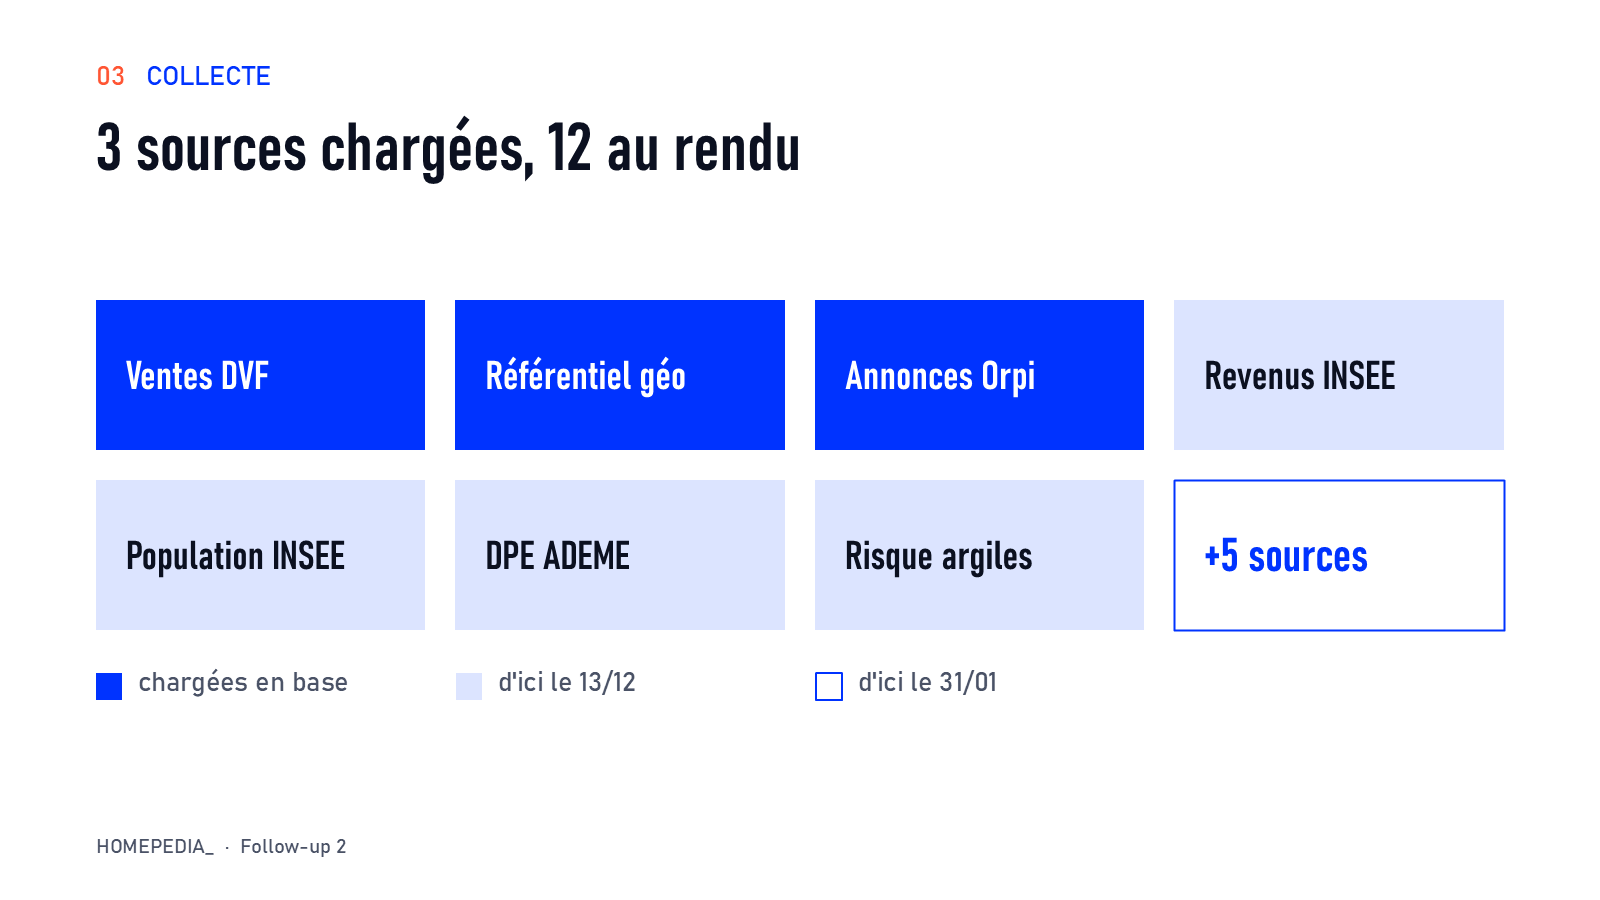
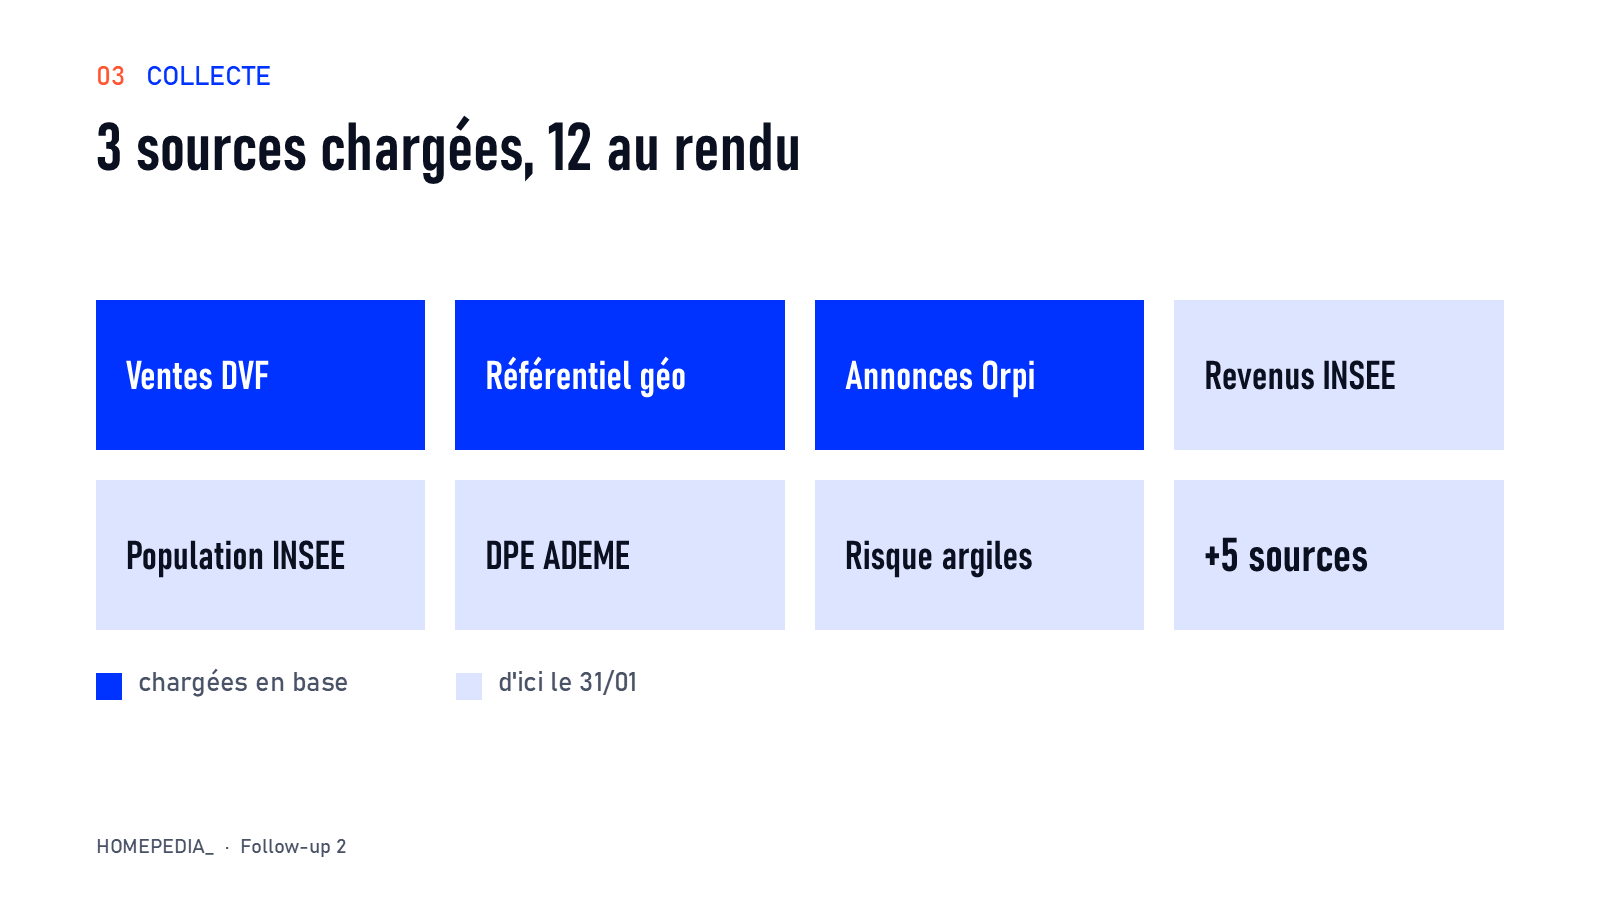
docs(followup2): slide Application et feuille de route reordonnee (cloud et pipelines d'abord)

Changed region(s): [[0.7188, 0.5289, 0.9688, 0.7156], [0.5, 0.7467, 0.625, 0.7778], [0.3438, 0.7467, 0.4062, 0.7778]]

diff --git a/docs/followup2/build_deck.py b/docs/followup2/build_deck.py
@@ -210,7 +210,8 @@ Chacune a déjà une brique qui fonctionne de bout en bout, de la donnée brute 
 - Bases : PostgreSQL/PostGIS pour le tabulaire et le spatial, MongoDB pour le texte des annonces.
 - Big data : un job Spark calcule les prix médians, recontrôlé en SQL.
 - Visualisation : application Streamlit, carte région → département → commune.
-La suite consiste à élargir chaque brique : plus de sources, l'analyse de texte, Spark sur OVHcloud Data Platform.
+La suite : d'abord Spark et des pipelines déployés automatiquement sur OVHcloud Data Platform, puis l'analyse de texte,
+puis les nouvelles sources, qui s'ajoutent alors comme de simples jobs.
 """)
 
 
@@ -224,6 +225,7 @@ def s03_sources(prs):
     gap = Inches(0.25)
     cw, ch = (LARGEUR - 3 * gap) / 4, Inches(1.25)
     cases = ([(nom, BLEU, BLANC) for nom in en_place] + [(nom, BLEU_PALE, ENCRE) for nom in palier1])
+    # Feuille de route : les 4 sources socio-éco et les 5 dernières arrivent au même palier (11/01 – 31/01)
     for i, (nom, fond_case, encre) in enumerate(cases):
         ligne, col = divmod(i, 4)
         x, y = MARGE + col * (cw + gap), Inches(2.5) + ligne * (ch + gap)
@@ -232,13 +234,12 @@ def s03_sources(prs):
               ancre=MSO_ANCHOR.MIDDLE)
     # 8e case : les sources restantes, sans cases vides
     x, y = MARGE + 3 * (cw + gap), Inches(2.5) + ch + gap
-    rect(s, x, y, cw, ch, contour=BLEU, epaisseur=1.5)
+    rect(s, x, y, cw, ch, remplissage=BLEU_PALE)
     texte(s, x + Inches(0.25), y, cw - Inches(0.5), ch,
-          f"+{F['sources_restantes']} sources", taille=28, couleur=BLEU,
+          f"+{F['sources_restantes']} sources", taille=28, couleur=ENCRE,
           police=TITRE, ancre=MSO_ANCHOR.MIDDLE)
     y_leg = Inches(5.55)
-    for j, (style, libelle) in enumerate([((BLEU, None), "chargées en base"), ((BLEU_PALE, None), "d'ici le 13/12"),
-                                          ((None, BLEU), "d'ici le 31/01")]):
+    for j, (style, libelle) in enumerate([((BLEU, None), "chargées en base"), ((BLEU_PALE, None), "d'ici le 31/01")]):
         x = MARGE + j * Inches(3.0)
         rect(s, x, y_leg + Inches(0.06), Inches(0.22), Inches(0.22), remplissage=style[0], contour=style[1])
         texte(s, x + Inches(0.35), y_leg, Inches(2.6), Inches(0.4), libelle, taille=16, couleur=GRIS)
@@ -250,11 +251,13 @@ En place et chargées en base :
 2. Référentiel géographique geo.api.gouv.fr : {F['regions']} régions, {F['departements']} départements, {n(F['communes'])} communes et leurs contours.
 3. Annonces Orpi : {F['annonces']} annonces de vente collectées par scraping (robots.txt respecté, 1 requête par seconde),
    avec la description en texte libre — c'est notre source textuelle.
-D'ici le 13/12, {F['sources_palier1']} sources en open data, reliées par le code INSEE de la commune : revenus (INSEE Filosofi),
+D'ici le 31/01, une fois les pipelines déployés automatiquement sur la plateforme cloud (priorité du premier palier),
+{F['sources_palier1']} sources socio-économiques en open data, reliées par le code INSEE de la commune : revenus (INSEE Filosofi),
 population, diagnostics énergétiques (ADEME), risque retrait-gonflement des argiles (Géorisques — répond à la
-question du sujet sur le risque climatique à 15 ans).
-D'ici le 31/01, {F['sources_restantes']} de plus pour atteindre {F['sources_visees']} : établissements scolaires, gares, chômage localisé (INSEE),
+question du sujet sur le risque climatique à 15 ans) ;
+et {F['sources_restantes']} de plus pour atteindre {F['sources_visees']} : établissements scolaires, gares, chômage localisé (INSEE),
 Base Adresse Nationale, et une source d'avis textuels.
+Chaque nouvelle source = un job ajouté au pipeline, pas un chantier à part.
 """)
 
 
@@ -358,7 +361,42 @@ Résultat : {n(F['indicateurs_lignes'])} indicateurs écrits en base, avec leur 
 Pourquoi la médiane : une vente aberrante ne la déplace pas, contrairement à la moyenne.
 Vérification : un contrôle recalcule en SQL la médiane de TOUTES les zones et compare avec Spark :
 {F['ecarts_spark_sql']} écart. Relancer le job redonne la même table (idempotence vérifiée).
-Aujourd'hui Spark tourne en local sur une machine ; il passera sur OVHcloud Data Platform (slide 10).
+Aujourd'hui Spark tourne en local sur une machine ; il passera sur OVHcloud Data Platform (slide 11).
+""")
+
+
+def s07_application(prs):
+    s = prs.slides.add_slide(prs.slide_layouts[6])
+    fond(s, BLANC)
+    entete(s, 7, "Application", "Trois pages pour deux questions métier")
+    pages = [
+        ("EN PLACE", "Carte", "Prix, évolution, puis autres indicateurs", True),
+        ("À VENIR", "Fiche territoire", "Une zone, tous ses chiffres", False),
+        ("À VENIR", "Comparateur", "Scoring franchises, écarts d'inégalités", False),
+    ]
+    gap = Inches(0.6)
+    w = (LARGEUR - 2 * gap) / 3
+    for i, (etat, titre, detail, fait) in enumerate(pages):
+        x = MARGE + i * (w + gap)
+        rect(s, x, Inches(2.7), w, Inches(0.09), remplissage=BLEU if fait else FILET)
+        texte(s, x, Inches(3.0), w, Inches(0.4), etat, taille=16, couleur=VERT if fait else ORANGE,
+              police=TITRE if fait else CORPS)
+        texte(s, x, Inches(3.45), w, Inches(0.9), titre, taille=40, police=TITRE, couleur=BLEU if fait else ENCRE)
+        texte(s, x, Inches(4.4), w - Inches(0.2), Inches(1.0), detail, taille=20, police=LEGER, couleur=GRIS)
+    notes(s, f"""
+Le sujet ne vise pas les particuliers mais les professionnels : agences, collectivités, analystes.
+On a choisi deux de ses questions métier comme fil rouge (ADR-042) :
+- « Où ouvrir les 10 prochaines franchises de mon entreprise ? » → un scoring multi-critères dont l'utilisateur règle les poids
+  (prix, revenus, population, dynamisme des ventes, risque argiles…) ;
+- « Comment réduire les inégalités dans mon département ? » → des indicateurs d'écart entre communes d'un même département.
+L'application cible a trois pages :
+1. Carte (en place) : prix médian et évolution aujourd'hui, puis chaque nouvel indicateur devient une couche au choix.
+2. Fiche territoire : une commune, un département ou une région, tous ses indicateurs et leur évolution sur une page.
+3. Comparateur et scoring : plusieurs zones côte à côte, classement pondérable pour les franchises, écarts pour les inégalités.
+Le volet texte alimente la carte et les fiches : caractéristiques extraites des annonces (« travaux », « rénovation »)
+et sentiment calculé sur une source d'avis.
+Sur chaque page, comme le demande le sujet : commune, département et région, tableau triable, filtrable et exportable,
+indicateurs croisés.
 """)
 
 
@@ -369,10 +407,10 @@ def capture_recadree(nom="1_france", boite=(230, 60, 1420, 1170)):
     return dst
 
 
-def s07_demo(prs):
+def s08_demo(prs):
     s = prs.slides.add_slide(prs.slide_layouts[6])
     fond(s, BLANC)
-    entete(s, 7, "Démo", f"De la France à l'arrondissement en {F['clics_demo']} clics")
+    entete(s, 8, "Démo", f"De la France à l'arrondissement en {F['clics_demo']} clics")
     pic = image(s, capture_recadree(), MARGE, Inches(2.0), Inches(6.2), Inches(4.65))
     texte(s, MARGE, pic.top + pic.height + Inches(0.08), pic.width, Inches(0.25), "Fond de carte © Esri",
           taille=10, couleur=GRIS).name = "chrome attribution"
@@ -400,10 +438,10 @@ Si la démo ne répond pas : captures du parcours dans docs/followup2/captures/.
 """)
 
 
-def s08_evolution(prs):
+def s09_evolution(prs):
     s = prs.slides.add_slide(prs.slide_layouts[6])
     fond(s, BLANC)
-    entete(s, 8, "Évolution", f"Paris : {pct(F['variation_paris_pct'])} entre {F['annee_debut']} et {F['annee_fin']}")
+    entete(s, 9, "Évolution", f"Paris : {pct(F['variation_paris_pct'])} entre {F['annee_debut']} et {F['annee_fin']}")
     pic = image(s, capture_recadree("5_evolution_paris"), MARGE, Inches(2.0), Inches(6.2), Inches(4.65))
     texte(s, MARGE, pic.top + pic.height + Inches(0.08), pic.width, Inches(0.25), "Fond de carte © Esri",
           taille=10, couleur=GRIS).name = "chrome attribution"
@@ -437,10 +475,10 @@ Plan B : captures/4_evolution_france_app.png et 5_evolution_paris_app.png.
 """)
 
 
-def s09_controles(prs):
+def s10_controles(prs):
     s = prs.slides.add_slide(prs.slide_layouts[6])
     fond(s, BLEU)
-    entete(s, 9, "Qualité", "Bases et application vérifiées automatiquement", sombre=True)
+    entete(s, 10, "Qualité", "Bases et application vérifiées automatiquement", sombre=True)
     for i, (gros, petit) in enumerate([(F["controles_bdd"], "contrôles sur les bases"),
                                         (F["tests_app"], "tests de l'application")]):
         x = MARGE + i * Inches(5.6)
@@ -459,10 +497,10 @@ Les chiffres de ce deck sont eux-mêmes extraits de la base par un script, pas r
 """)
 
 
-def s10_cloud(prs):
+def s11_cloud(prs):
     s = prs.slides.add_slide(prs.slide_layouts[6])
     fond(s, BLANC)
-    entete(s, 10, "Plateforme cloud", "Spark passe sur OVHcloud Data Platform")
+    entete(s, 11, "Plateforme cloud", "Spark passe sur OVHcloud Data Platform")
     colonnes = [
         ("AUJOURD'HUI", "Spark local", "1 machine", ENCRE),
         ("OVHCLOUD DATA PLATFORM", "Spark distribué", "1 driver + N exécuteurs", BLEU),
@@ -481,7 +519,7 @@ def s10_cloud(prs):
                   align=PP_ALIGN.CENTER)
     trait(s, MARGE, Inches(5.4), L - MARGE, Inches(5.4))
     texte(s, MARGE, Inches(5.6), LARGEUR, Inches(0.5),
-          [[("Mode serverless : ", {"police": TITRE, "couleur": BLEU}), ("facturé à l'exécution", {})]],
+          [[("Priorité : ", {"police": TITRE, "couleur": BLEU}), ("pipelines déployés automatiquement", {})]],
           taille=22, police=LEGER, couleur=ENCRE)
     notes(s, """
 Le sujet impose de répartir le calcul sur un cluster de machines (Hadoop / Spark) : on le fera sur OVHcloud Data Platform.
@@ -495,17 +533,20 @@ Notre job tourne déjà en PySpark : on le porte tel quel, la table d'indicateur
 Coût maîtrisé : facturation à l'usage ; en mode serverless, un job ne consomme que pendant son exécution
 (un notebook allumé ou le mode always-up consomment en continu, on les évite).
 Contrôle prévu : la même vérification qu'aujourd'hui, médiane Spark = recalcul SQL sur toutes les zones.
+C'est la priorité du prochain palier : prendre en main la plateforme et automatiser le déploiement des pipelines
+(ingestion, nettoyage, calcul Spark, contrôles). Ensuite, intégrer une nouvelle source ou un nouveau calcul revient
+à ajouter un job, déployé et contrôlé de la même façon — c'est ce qui rend les paliers suivants rapides.
 """)
 
 
-def s11_feuille_de_route(prs):
+def s12_feuille_de_route(prs):
     s = prs.slides.add_slide(prs.slide_layouts[6])
     fond(s, BLANC)
-    entete(s, 11, "Feuille de route", "Quatre paliers jusqu'au rendu du 7 février")
+    entete(s, 12, "Feuille de route", "Quatre paliers jusqu'au rendu du 7 février")
     paliers = [
-        ("23/11 – 13/12", "Socio-éco", "Revenus, DPE, risques"),
-        ("14/12 – 10/01", "Analyse de texte", "Sentiment des annonces"),
-        ("11/01 – 31/01", "Spark sur OVHcloud", f"{F['sources_visees']} sources au total"),
+        ("23/11 – 13/12", "Spark sur OVHcloud", "Pipelines déployés automatiquement"),
+        ("14/12 – 10/01", "Analyse de texte", "Annonces et avis"),
+        ("11/01 – 31/01", "Socio-éco", f"Revenus, DPE, risques · {F['sources_visees']} sources"),
         ("01/02 – 07/02", "Rendu", "Documentation"),
     ]
     y = Inches(3.5)
@@ -522,12 +563,14 @@ def s11_feuille_de_route(prs):
     notes(s, f"""
 Nous sommes au début du premier palier. Chaque palier ajoute une brique sur le socle existant, sans rien
 reconstruire : même clé (code INSEE), mêmes bases, même mécanisme de contrôles PASS/FAIL.
-1. 23/11 – 13/12 : {F['sources_palier1']} sources socio-économiques et risques (revenus INSEE Filosofi, population, DPE ADEME,
-   retrait-gonflement des argiles), affichées comme nouveaux indicateurs sur la carte.
-2. 14/12 – 10/01 : analyse de sentiment sur le texte des annonces (et d'avis si la source est retenue),
-   agrégée par commune ; méthode et modèle documentés comme l'exige le sujet.
-3. 11/01 – 31/01 : job Spark sur OVHcloud Data Platform (slide précédente), {F['sources_restantes']} dernières sources
-   pour atteindre {F['sources_visees']}, page tableau avec indicateurs croisés et export.
+1. 23/11 – 13/12 : priorité à la plateforme. Spark sur OVHcloud Data Platform (slide précédente) et déploiement
+   automatisé des pipelines de données : ingestion, nettoyage, calcul, contrôles. C'est l'investissement qui rend
+   les paliers suivants rapides — une nouvelle donnée ou un nouveau calcul devient un job de plus.
+2. 14/12 – 10/01 : analyse de texte. Caractéristiques extraites des annonces (« travaux », « rénovation »…) et
+   sentiment calculé sur une source d'avis, agrégés par commune ; méthode et modèle documentés comme l'exige le sujet.
+3. 11/01 – 31/01 : {F['sources_palier1']} sources socio-économiques et risques (revenus INSEE Filosofi, population, DPE ADEME,
+   retrait-gonflement des argiles) et {F['sources_restantes']} autres pour atteindre {F['sources_visees']}, intégrées par les pipelines du
+   palier 1 ; pages Fiche territoire et Comparateur (slide 7).
 4. 01/02 – 07/02 : gel des fonctionnalités, documentation (schéma, méthodologie de nettoyage, IA), répétition.
 Merci — questions ?
 """)
@@ -536,8 +579,8 @@ Merci — questions ?
 def main():
     prs = Presentation()
     prs.slide_width, prs.slide_height = L, H
-    for f in (s01_titre, s02_etapes, s03_sources, s04_bases, s05_nettoyage, s06_spark, s07_demo,
-              s08_evolution, s09_controles, s10_cloud, s11_feuille_de_route):
+    for f in (s01_titre, s02_etapes, s03_sources, s04_bases, s05_nettoyage, s06_spark, s07_application, s08_demo,
+              s09_evolution, s10_controles, s11_cloud, s12_feuille_de_route):
         f(prs)
     prs.save(SORTIE)
     print(f"-> {SORTIE.name} ({len(prs.slides)} slides)")

diff --git a/docs/followup2/faits.py b/docs/followup2/faits.py
@@ -116,8 +116,8 @@ def faits_controles():
 FAITS_DECLARES = {
     "sources_en_place": 3,           # DVF 2022-2025, geo.api.gouv.fr, annonces Orpi
     "sources_visees": 12,            # sujet v2.1 p.3 : « at least a dozen »
-    "sources_palier1": 4,            # revenus, population, DPE, argiles (feuille de route, d'ici le 13/12)
-    "sources_restantes": 5,          # 12 - 3 en place - 4 du palier 1 (d'ici le 31/01)
+    "sources_palier1": 4,            # socio-éco : revenus, population, DPE, argiles (palier 11/01 – 31/01)
+    "sources_restantes": 5,          # 12 - 3 en place - 4 socio-éco (même palier, d'ici le 31/01)
     "seuil_ventes": 30,              # app/carte.py SEUIL_VENTES
     "annee_debut": DEBUT,
     "annee_fin": FIN,

diff --git a/docs/followup2/demo.md b/docs/followup2/demo.md
@@ -15,7 +15,7 @@ Chiffres de ce déroulé : `faits.json` (extraits de la base par `faits.py`, jam
 | 7 | Vérifier la connexion internet | le fond de carte (Esri) vient d'internet ; sans réseau, les zones colorées s'affichent quand même sur fond gris |
 | 8 | Ouvrir le deck, onglet app prêt à côté (Alt+Tab) | — |
 
-## 2. Le parcours (slide 7, ~2 min)
+## 2. Le parcours (slide 8, ~2 min)
 
 | Clic | Écran | Phrase |
 |---|---|---|
@@ -26,7 +26,7 @@ Chiffres de ce déroulé : `faits.json` (extraits de la base par `faits.py`, jam
 | — | Tableau à droite, tri sur le prix, « Exporter en CSV » | « Le tableau reprend exactement les chiffres de la carte, il se trie et s'exporte. » |
 | — | Zone grisée (dans un département rural) + légende sous la carte | « Moins de 30 ventes : on n'affiche pas de prix plutôt qu'un chiffre non significatif. Les limites de la donnée sont écrites sous la carte. » |
 | 4 | Bouton « Évolution » (De 2022 À 2025, par défaut) | « Quatre années de ventes chargées : la variation du prix médian, bleu = baisse, rouge = hausse. Sans couleur : moins de 30 ventes une des deux années. » |
-| — | Bouton « France » | retour, Alt+Tab vers le deck, slide 8 (évolution) |
+| — | Bouton « France » | retour, Alt+Tab vers le deck, slide 9 (évolution) |
 
 ## 3. Plan B
 
